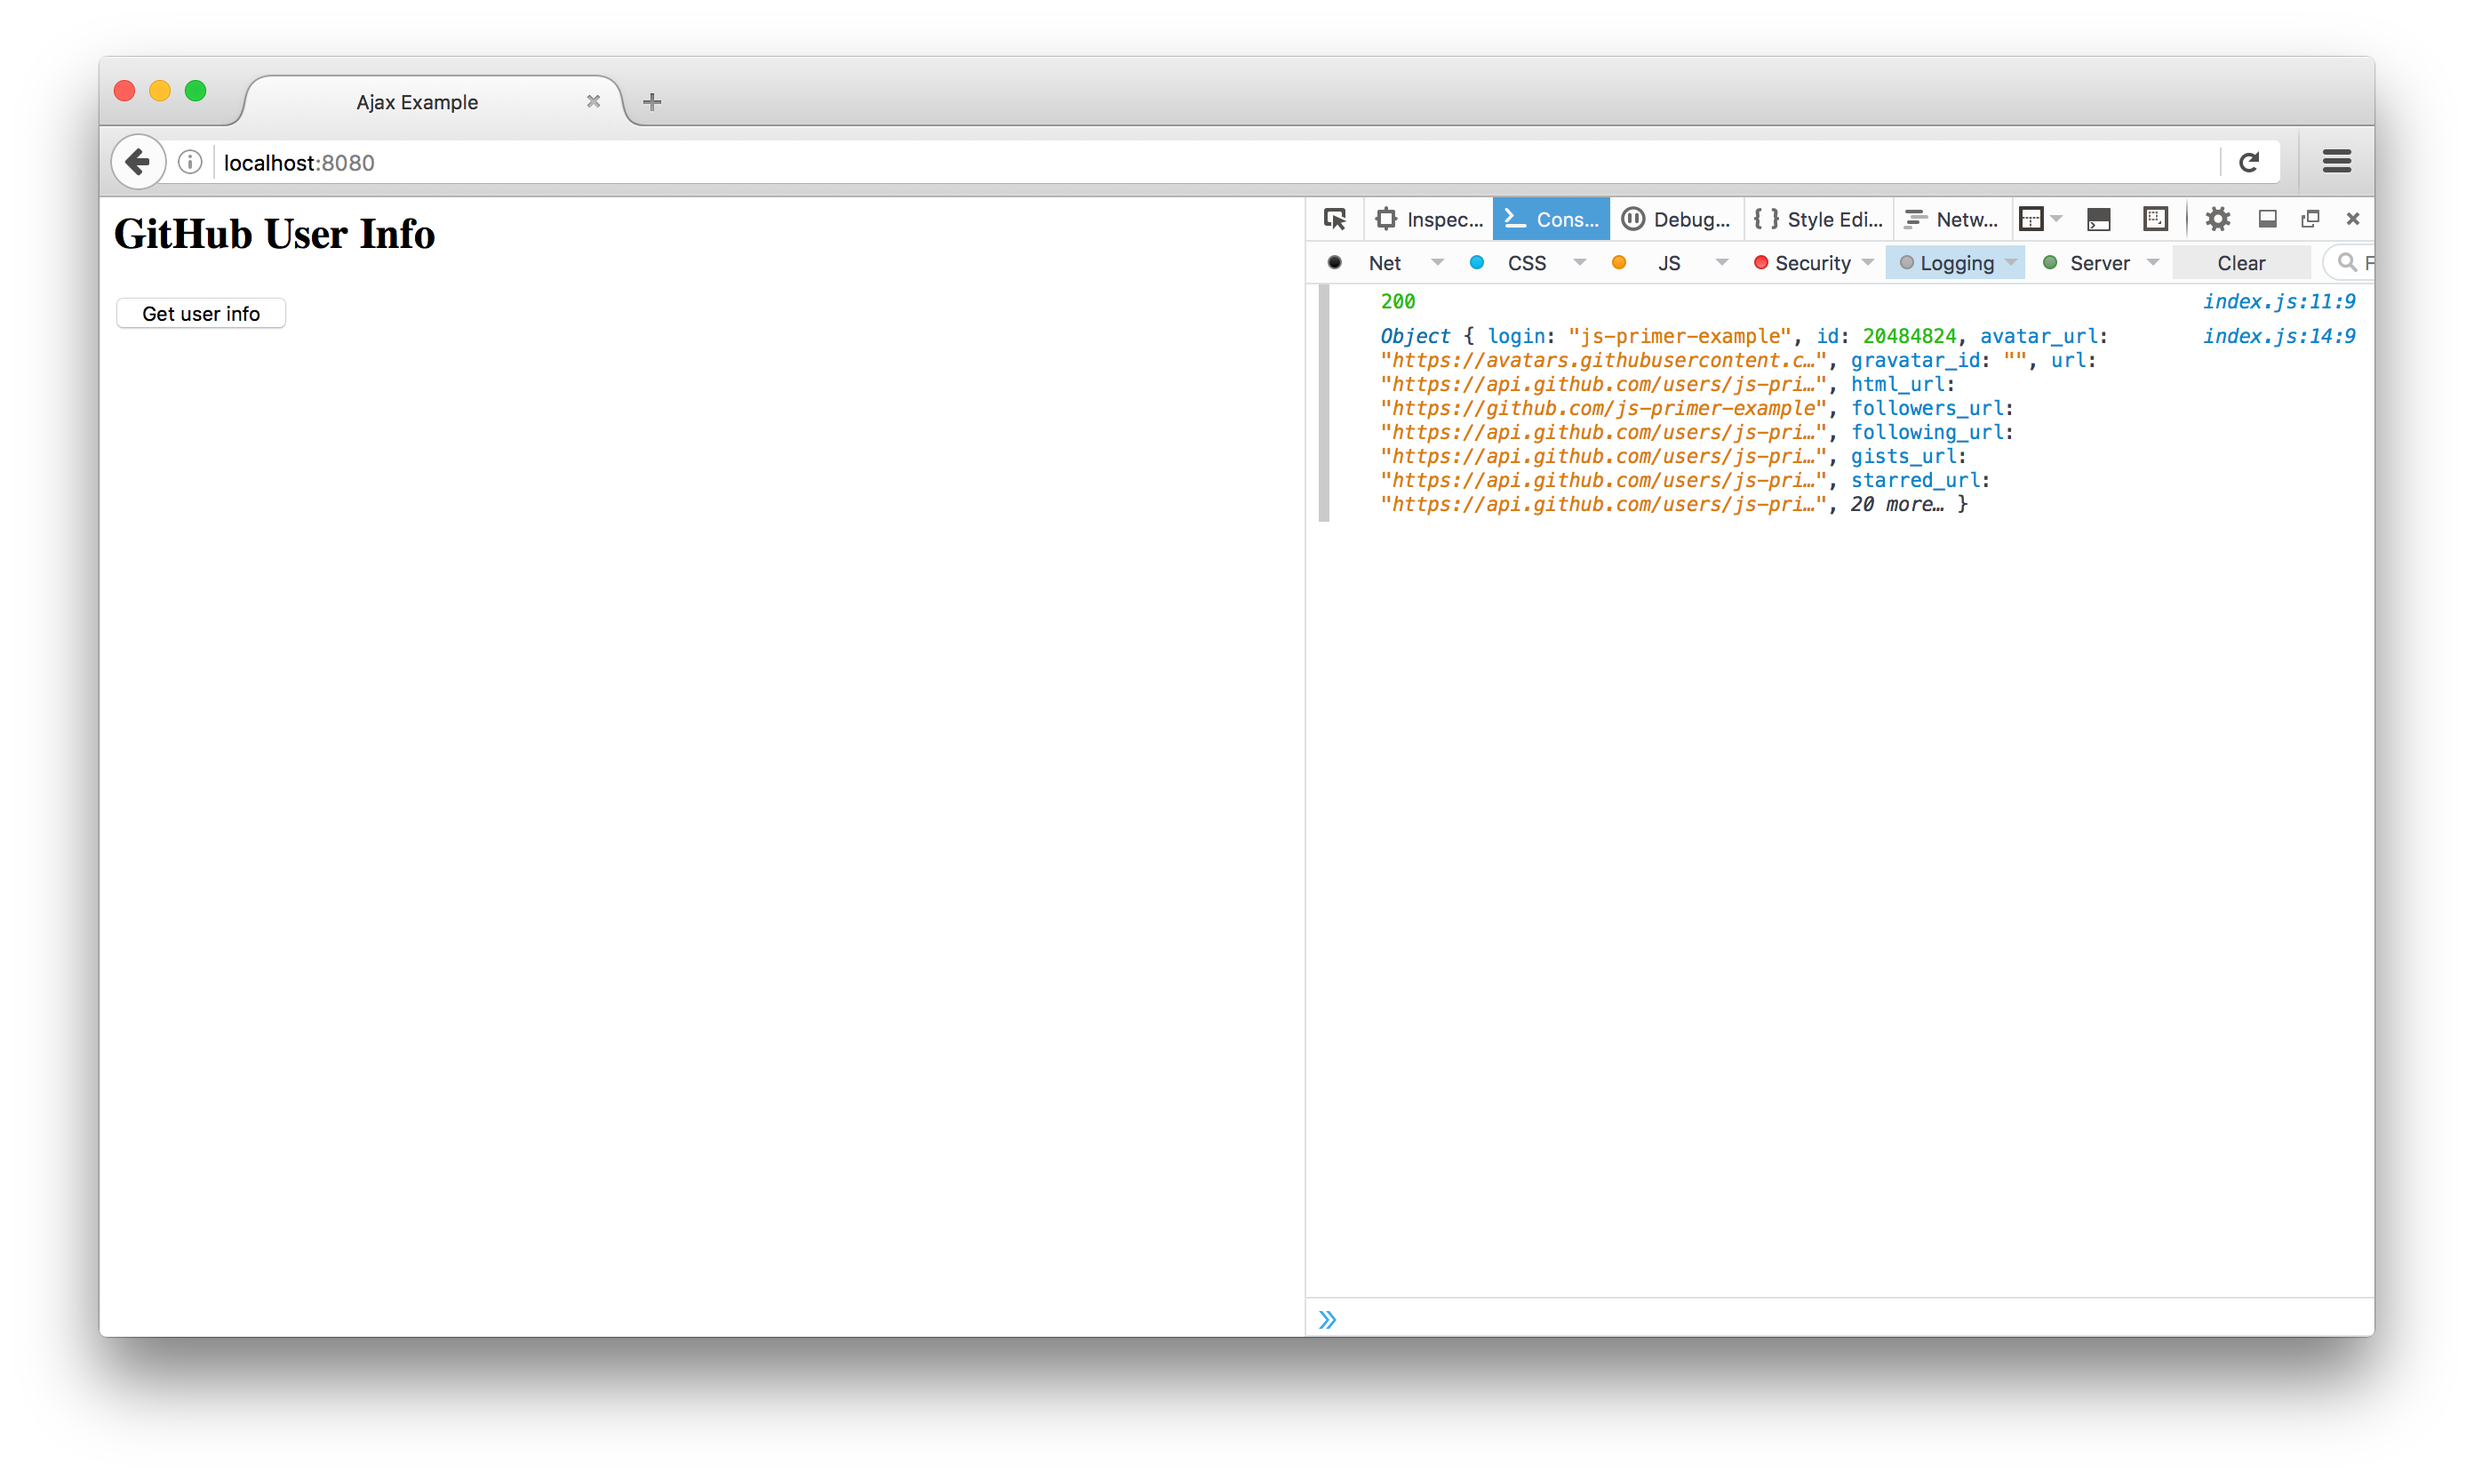
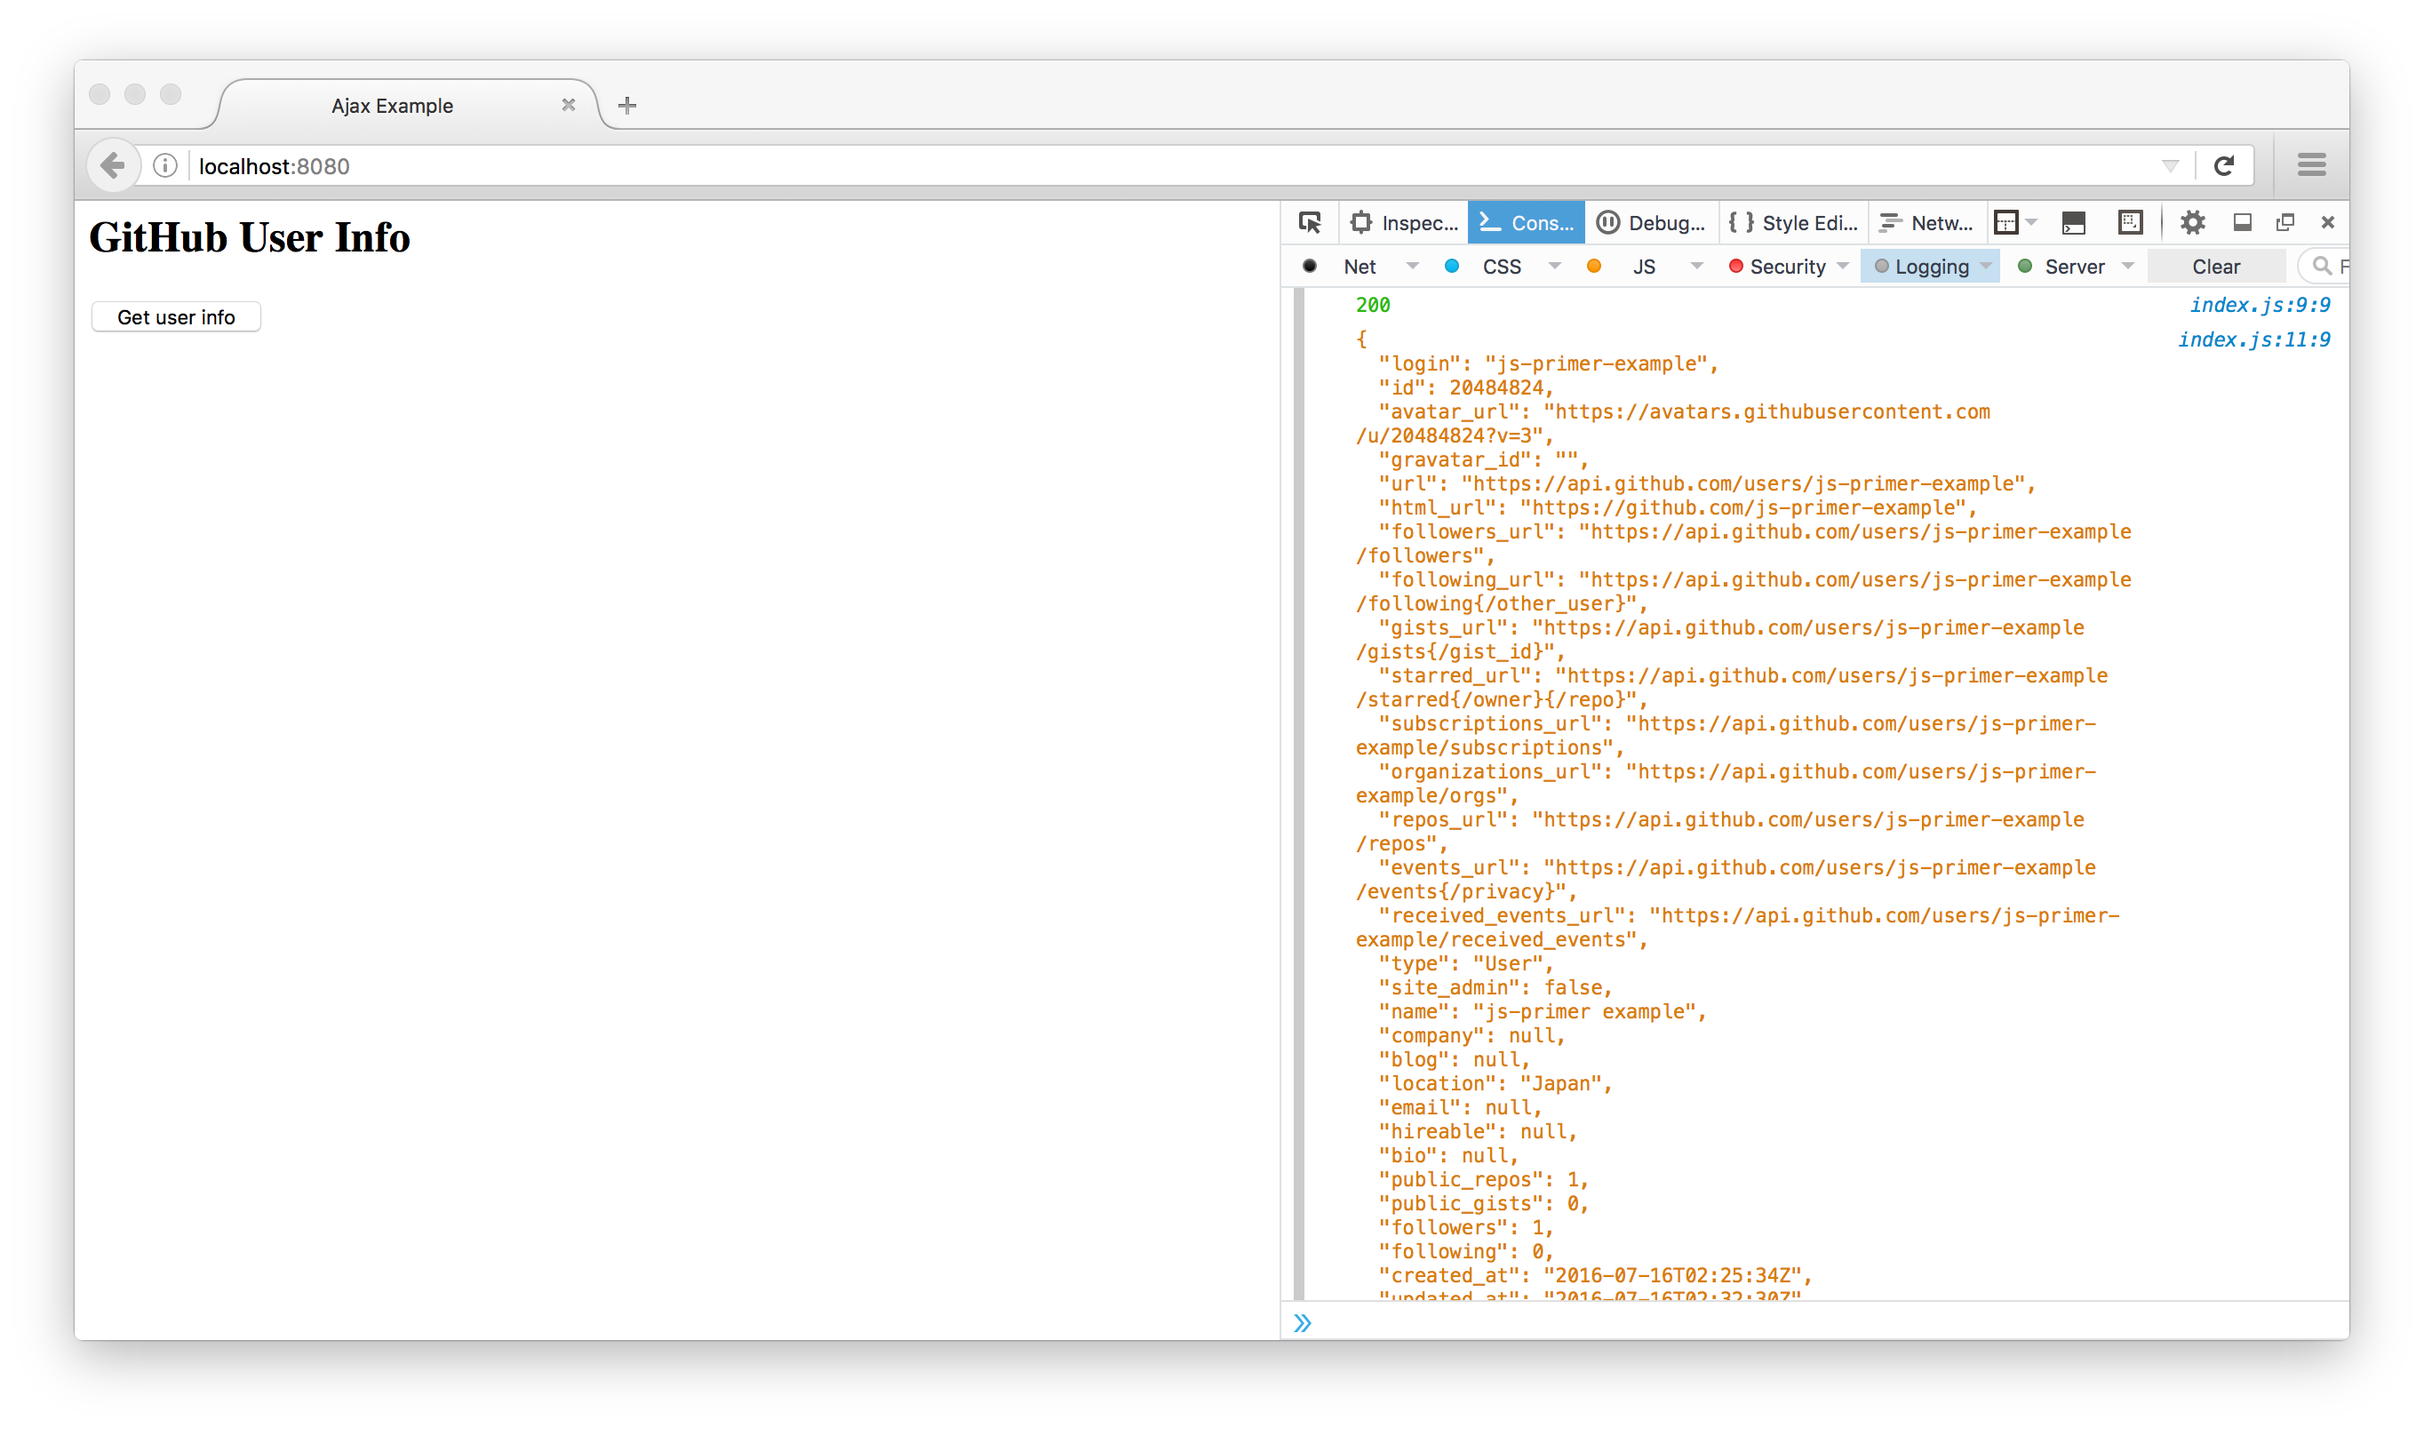
JSON.parseはまだやらなくていい

Changed region(s): [[0.0312, 0.0311, 0.9971, 0.9639], [0.8413, 0.3731, 0.8724, 0.4353]]

diff --git a/source/ajaxapp/xhr/src/index.js b/source/ajaxapp/xhr/src/index.js
@@ -8,8 +8,7 @@ function getUserInfo(userId) {
         }
         console.log(event.target.status);
         const responseText = event.target.responseText;
-        const response = JSON.parse(responseText);
-        console.log(response);
+        console.log(responseText);
     });
     request.addEventListener("error", () => {
         console.error("Network Error");
